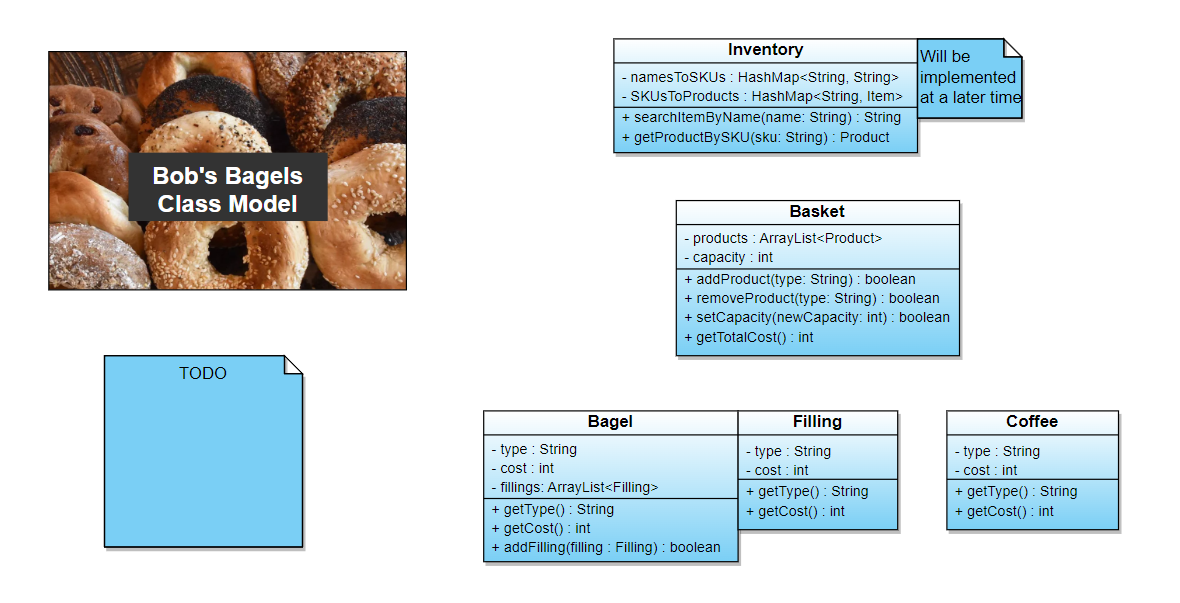
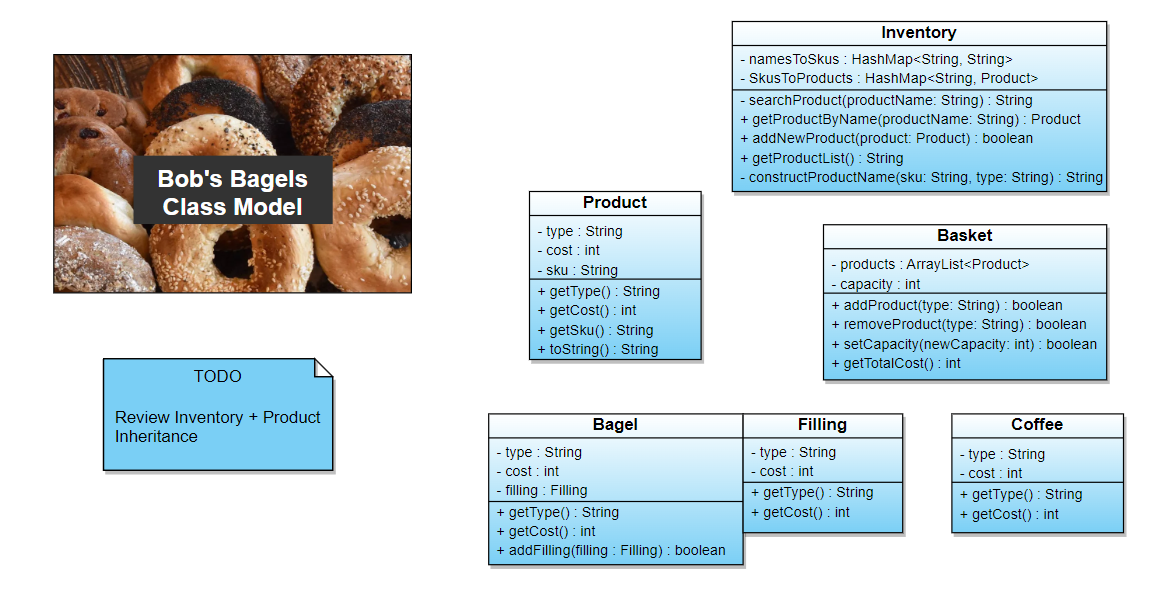
Added Product Class + Changed Inventory Class

diff --git a/DomainModel.md b/DomainModel.md
@@ -65,30 +65,44 @@ I want customers to only be able to order things that we stock in our inventory.
 
 ### Domain Model
 
-(Currently Under Development)
-
-| Class     | Method                       | Attributes                            | Scenario                               | Outcome                   |
-|-----------|------------------------------|---------------------------------------|----------------------------------------|---------------------------|
-| Bagel     | getType()                    | String type                           | 7. Get the bagel type                  | String                    |
-|           | getCost()                    | int cost                              | Get the bagel cost                     | int                       |
-|           | addFilling(Filling filling)  | ArrayList<Filling> fillings           | 8. Choose fillings for my bagel:       |                           |
-|           |                              |                                       | - If space exists for filling          | True                      |
-|           |                              |                                       | - If space doesn't exist for filling   | False                     |
-| Filling   | getType()                    | String type                           | Get the filling type                   | String                    |
-|           | getCost()                    | int cost                              | 9. Get the filling cost                | int                       |
-| Coffee    | getType()                    | String type                           | Get the coffee type                    | String                    |
-|           | getCost()                    | int cost                              | Get the coffee cost                    | int                       |
-| Basket    | addBagel(String type)        | ArrayList<Bagel> bagels, int capacity | 1,3. Add bagel to basket:              |                           |
-|           |                              |                                       | - If capacity not max                  | True, Add bagel to basket |
-|           |                              |                                       | - If capacity is max                   | False, Print Message      |
-|           | removeBagel(String type)     |                                       | 2,5. Remove bagel from basket:         |                           |
-|           |                              |                                       | - If item exists                       | True, Bagel removed       |
-|           |                              |                                       | - If item doesn't exist                | False, Print Message      |
-|           | setCapacity(int newCapacity) |                                       | 4. Expand business -> bigger capacity: |                           |
-|           |                              |                                       | - If newCapacity > oldCapacity         | True, Capacity changes    |
-|           |                              |                                       | - Otherwise                            | False, Print Message      |
-|           | getTotalCost()               |                                       | 6. Find the cost of items in basket:   |                           |
-|           |                              |                                       | - If basket is empty:                  | 0, Print Message          |
-|           |                              |                                       | - If basket is not empty               | int                       |
-| Inventory | -                            | -                                     | -                                      | -                         |
-|           | -                            | -                                     | -                                      | -                         |
+| Class     | Method                                        | Attributes                                | Scenario                                | Outcome                          |
+|-----------|-----------------------------------------------|-------------------------------------------|-----------------------------------------|----------------------------------|
+| Product   | getType()                                     | String type                               | Get the product type                    | String                           |
+|           | getCost()                                     | int cost                                  | Get the product cost                    | int                              |   
+|           | getSku()                                      | String sku                                | Get the product sku                     | String                           |
+|           | toString()                                    |                                           | Get string representation of product    | String                           |
+| Bagel     | getType()                                     | String type                               | 7. Get the bagel type                   | String                           |
+|           | getCost()                                     | int cost                                  | Get the bagel cost                      | int                              |
+|           | getSku()                                      | String sku                                | Get the bagel sku                       | String                           |
+|           | addFilling(Filling filling)                   | Filling filling                           | 8. Choose filling for my bagel:         |                                  |
+|           |                                               |                                           | - If filling does not exist             | True                             |
+|           |                                               |                                           | - If filling exists                     | False                            |
+| Filling   | getType()                                     | String type                               | Get the filling type                    | String                           |
+|           | getCost()                                     | int cost                                  | 9. Get the filling cost                 | int                              |
+|           | getSku()                                      | String sku                                | Get the filling sku                     | String                           |
+| Coffee    | getType()                                     | String type                               | Get the coffee type                     | String                           |
+|           | getCost()                                     | int cost                                  | Get the coffee cost                     | int                              |
+|           | getSku()                                      | String sku                                | Get the coffee sku                      | String                           |
+| Basket    | addProduct(String type)                       | ArrayList<Product> products, int capacity | 1,3. Add product to basket:             |                                  |
+|           |                                               |                                           | - If capacity not max                   | True, Add product to basket      |
+|           |                                               |                                           | - If capacity is max                    | False, Print Message             |
+|           | removeProduct(String type)                    |                                           | 2,5. Remove product from basket:        |                                  |
+|           |                                               |                                           | - If product exists                     | True, Product removed            |
+|           |                                               |                                           | - If product doesn't exist              | False, Print Message             |
+|           | setCapacity(int newCapacity)                  |                                           | 4. Expand business -> bigger capacity:  |                                  |
+|           |                                               |                                           | - If newCapacity > oldCapacity          | True, Capacity changes           |
+|           |                                               |                                           | - Otherwise                             | False, Print Message             |
+|           | getTotalCost()                                |                                           | 6. Find the cost of products in basket: |                                  |
+|           |                                               |                                           | - If basket is empty:                   | 0, Print Message                 |
+|           |                                               |                                           | - If basket is not empty                | int                              |
+| Inventory | searchProduct(String productName)             | HashMap<String, String> namesToSkus       | Look for product in the shop inventory: |                                  |
+|           |                                               |                                           | - If product in inventory               | String (which is the SKU)        |
+|           |                                               |                                           | - If product not in inventory           | null                             |
+|           | getProductByName(String productName)          | HashMap<String, Product> SkusToProducts   | Get product from the shop inventory:    |                                  |
+|           |                                               |                                           | - If SKU exists                         | Product                          |
+|           |                                               |                                           | - If SKU does not exist                 | null                             |
+|           | addNewProduct(Product product)                |                                           | Add product to inventory:               |                                  |
+|           |                                               |                                           | - If product already exists             | False,                           |
+|           |                                               |                                           | - Otherwise                             | True, Product added to inventory |
+|           | getProductList()                              |                                           | Get a list of all the products          | String                           |
+|           | constructProductName(String sku, String type) |                                           | Create a product name for the product   | String                           |
